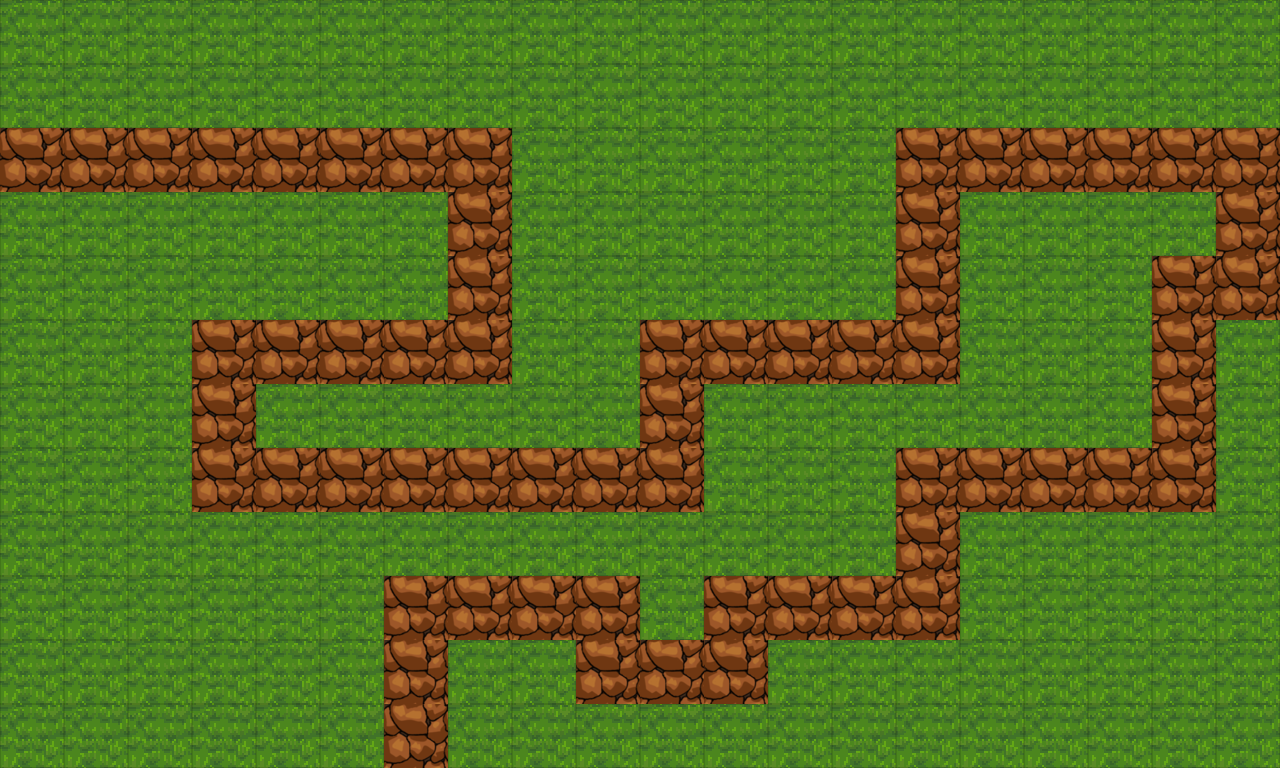
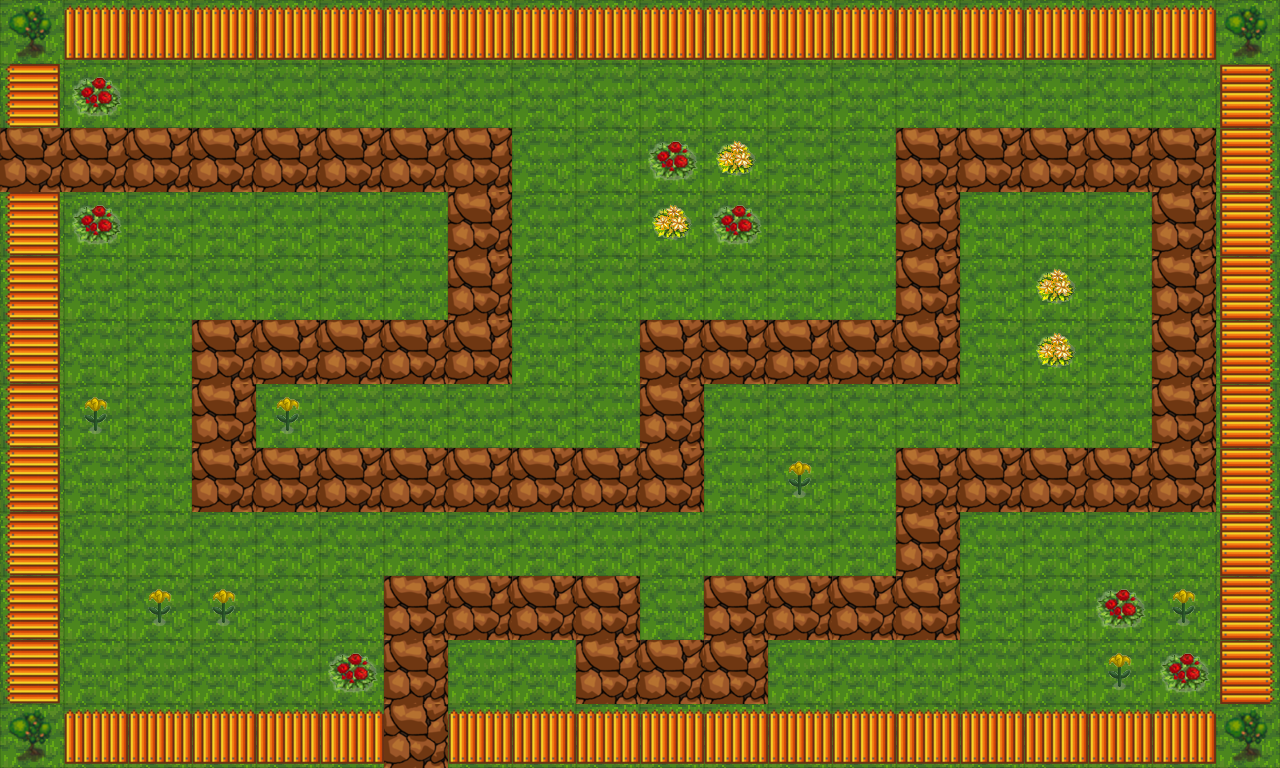
[ADD] Tiles, interaction, architecture of files
- Tiles : added the subdivision of tiles
- Placed classes in independant file
- Change of map.png with v2

diff --git a/src/index.js b/src/index.js
@@ -13,24 +13,13 @@ for (let i = 0; i < quadrillageToursData.length; i += 20) {
   quadrillageToursData2D.push(quadrillageToursData.slice(i, i + 20));
 }
 
-class CaseTours {
-  constructor({ position = { x: 0, y: 0 } }) {
-    this.position = position;
-    this.size = 64; // à changer avc notre taille de tiles
-    this.color = "green";
-  }
-
-  draw() {
-    c.fillStyle = this.color;
-    c.fillRect(this.position.x, this.position.y, this.size, this.size);
-  }
-}
+console.log(quadrillageToursData2D);
 
 const casesTours = [];
 
 quadrillageToursData2D.forEach((row, y) => {
   row.forEach((symbol, x) => {
-    if (symbol === 14) {
+    if (symbol === 7) {
       //potentiellement le changer ?
       //ici : ajouter les cases de placement de tours
       casesTours.push(
@@ -50,70 +39,6 @@ image.onload = () => {
 };
 image.src = "assets/map.png";
 
-class Enemy {
-  constructor({ position = { x: 0, y: 0 } }) {
-    this.position = position;
-    this.width = 100;
-    this.height = 100;
-    this.waypointIndex = 0;
-    this.center = {
-      // Permet de créer un point central dans les ennemis pour les déplacer à partir de leur centre.
-      x: this.position.x + this.width / 2,
-      y: this.position.y + this.height / 2,
-    };
-    this.health = 100;
-    this.velocity = {
-      x: 0,
-      y: 0,
-    };
-  }
-
-  draw() {
-    c.fillStyle = "red";
-    c.fillRect(this.position.x, this.position.y, this.width, this.height);
-
-    //gros bordel beginpath et tt
-
-    //Barre de vie
-    c.fillStyle = "red";
-    c.fillRect(this.position.x, this.position.y - 15, this.width, 10);
-
-    c.fillStyle = "green";
-    c.fillRect(this.position.x, this.position.y - 15, this.width, 10);
-  }
-
-  update() {
-    this.draw();
-
-    const waypoint = waypoints[this.waypointIndex]; // On récupère le waypoint actuel de chemin.js
-    const yDistance = waypoint.y - this.center.y;
-    const xDistance = waypoint.x - this.center.x;
-    const angle = Math.atan2(yDistance, xDistance);
-
-    const speed = 10; // vitesse
-    this.velocity.x = Math.cos(angle) * speed;
-    this.velocity.y = Math.sin(angle) * speed;
-
-    this.position.x += this.velocity.x; // Renvoie à la rapidité et le Math.cos(angle) permet de déplacer l'ennemi sur l'axe des x ICI : on peut ajouter un multiplicateur pour augmenter la vitesse des ennemis
-    this.position.y += this.velocity.y; // Renvoie à la rapidité et le  Math.sin(angle) permet de déplacer l'ennemi sur l'axe des y ICI : on peut ajouter un multiplicateur pour augmenter la vitesse des ennemis
-    this.center = {
-      x: this.position.x + this.width / 2,
-      y: this.position.y + this.height / 2,
-    };
-
-    if (
-      Math.abs(Math.round(this.center.x) - Math.round(waypoint.x)) <
-        Math.abs(this.velocity.x) &&
-      Math.abs(Math.round(this.center.y) - Math.round(waypoint.y)) <
-        Math.abs(this.velocity.y) && // Ici : je ne peux pas mettre this.center.x et this.center.y à la place de this.position.x et this.position.y <- j'ai fix c bon
-      this.waypointIndex < waypoints.length - 1
-    ) {
-      //Boucle if permettant de vérifier si l'ennemi est arrivé à la position du waypoint, et de passer au waypoint suivant
-      this.waypointIndex++;
-    }
-  }
-}
-
 // erreur incompréhensible const enemy = new Enemy({ position: { x: waypoints[0].x, y: waypoints[0].y } });
 const enemies = []; //ici : inclure les ennemis de la db
 
@@ -130,6 +55,10 @@ function spawnEnemies() {
 spawnEnemies();
 const enemy = new Enemy({ position: { x: waypoints[0].x, y: waypoints[0].y } });
 let x = 200;
+
+const tours = [];
+let caseActive = undefined;
+
 function animate() {
   requestAnimationFrame(animate);
 
@@ -137,12 +66,55 @@ function animate() {
   enemies.forEach((enemy) => {
     enemy.update();
 
-    if (enemy.position.x > canvas.height) {
-      console.log("ouch");
-    }
+    //    if (enemy.position.x > canvas.height) {
+    //      console.log("ouch"); // bizarre ils ouchent avant de sortir de l'écran
+    //    }
   });
 
   casesTours.forEach((caseTours) => {
-    caseTours.draw();
+    caseTours.update(mouse);
+  });
+
+  tours.forEach((tour) => {
+    tour.draw(); // ne fonctionne pas, ne permet pas de faire apparaitre la tour
   });
 }
+
+const mouse = {
+  x: undefined,
+  y: undefined,
+};
+
+canvas.addEventListener("click", (event) => {
+  if (caseActive) {
+    tours.push(
+      new Tour({
+        position: {
+          x: caseActive.position.x,
+          y: caseActive.position.y,
+        }, // ne fonctionne pas, ne permet pas de faire apparaitre la tour
+      })
+    );
+  }
+});
+
+window.addEventListener("mousemove", (event) => {
+  mouse.x = event.clientX;
+  mouse.y = event.clientY;
+
+  caseActive = null;
+  for (let i = 0; i < casesTours.length; i++) {
+    const cases = casesTours[i]; // j utilise le nom cases au pluriel car case  ne peut pas être utilisé
+    if (
+      // boucle if pour vérifier si la souris est sur une case
+      mouse.x > cases.position.x &&
+      mouse.x < cases.position.x + cases.size &&
+      mouse.y > cases.position.y &&
+      mouse.y < cases.position.y + cases.size
+    ) {
+      caseActive = cases;
+      break;
+    }
+  }
+  console.log(caseActive);
+});

diff --git a/src/classes.js b/src/classes.js
@@ -1,0 +1,100 @@
+class CaseTours {
+  constructor({ position = { x: 0, y: 0 } }) {
+    this.position = position;
+    this.size = 64;
+    this.color = "rgba(255, 255, 255, 0.3)";
+  }
+
+  draw() {
+    c.fillStyle = this.color;
+    c.fillRect(this.position.x, this.position.y, this.size, this.size);
+  }
+
+  update(mouse) {
+    this.draw();
+
+    if (
+      mouse.x > this.position.x &&
+      mouse.x < this.position.x + this.size &&
+      mouse.y > this.position.y &&
+      mouse.y < this.position.y + this.size
+    ) {
+      console.log("colliding");
+      this.color = "white";
+    } else this.color = "rgba(255, 255, 255, 0.3)";
+  }
+}
+
+class Tour {
+  constructor({ position = { x: 0, y: 0 } }) {
+    this.position = position;
+  }
+  draw() {
+    c.fillStyle = "blue";
+    c.fillRect(this.position.x, this.position.y, this.width, this.height);
+  }
+}
+
+class Enemy {
+  constructor({ position = { x: 0, y: 0 } }) {
+    this.position = position;
+    this.width = 100;
+    this.height = 100;
+    this.waypointIndex = 0;
+    this.center = {
+      // Permet de créer un point central dans les ennemis pour les déplacer à partir de leur centre.
+      x: this.position.x + this.width / 2,
+      y: this.position.y + this.height / 2,
+    };
+    this.health = 100;
+    this.velocity = {
+      x: 0,
+      y: 0,
+    };
+  }
+
+  draw() {
+    c.fillStyle = "red";
+    c.fillRect(this.position.x, this.position.y, this.width, this.height);
+
+    //gros bordel beginpath et tt
+
+    //Barre de vie
+    c.fillStyle = "red";
+    c.fillRect(this.position.x, this.position.y - 15, this.width, 10);
+
+    c.fillStyle = "blue";
+    c.fillRect(this.position.x, this.position.y - 15, this.width, 10);
+  }
+
+  update() {
+    this.draw();
+
+    const waypoint = waypoints[this.waypointIndex]; // On récupère le waypoint actuel de chemin.js
+    const yDistance = waypoint.y - this.center.y;
+    const xDistance = waypoint.x - this.center.x;
+    const angle = Math.atan2(yDistance, xDistance);
+
+    const speed = 10; // vitesse
+    this.velocity.x = Math.cos(angle) * speed;
+    this.velocity.y = Math.sin(angle) * speed;
+
+    this.position.x += this.velocity.x; // Renvoie à la rapidité et le Math.cos(angle) permet de déplacer l'ennemi sur l'axe des x ICI : on peut ajouter un multiplicateur pour augmenter la vitesse des ennemis
+    this.position.y += this.velocity.y; // Renvoie à la rapidité et le  Math.sin(angle) permet de déplacer l'ennemi sur l'axe des y ICI : on peut ajouter un multiplicateur pour augmenter la vitesse des ennemis
+    this.center = {
+      x: this.position.x + this.width / 2,
+      y: this.position.y + this.height / 2,
+    };
+
+    if (
+      Math.abs(Math.round(this.center.x) - Math.round(waypoint.x)) <
+        Math.abs(this.velocity.x) &&
+      Math.abs(Math.round(this.center.y) - Math.round(waypoint.y)) <
+        Math.abs(this.velocity.y) && // Ici : je ne peux pas mettre this.center.x et this.center.y à la place de this.position.x et this.position.y <- j'ai fix c bon
+      this.waypointIndex < waypoints.length - 1
+    ) {
+      //Boucle if permettant de vérifier si l'ennemi est arrivé à la position du waypoint, et de passer au waypoint suivant
+      this.waypointIndex++;
+    }
+  }
+}

diff --git a/src/quadrillageTours.js b/src/quadrillageTours.js
@@ -1,1 +1,12 @@
-const quadrillageToursData = [];
+const quadrillageToursData = [
+  0, 0, 0, 0, 0, 0, 0, 0, 0, 0, 0, 0, 0, 0, 0, 0, 0, 0, 0, 0, 0, 0, 7, 7, 7, 7,
+  7, 7, 7, 0, 0, 0, 0, 7, 7, 7, 7, 7, 7, 0, 0, 0, 0, 0, 0, 0, 0, 0, 7, 0, 0, 0,
+  0, 7, 0, 0, 0, 0, 0, 0, 0, 0, 7, 7, 7, 7, 7, 0, 7, 0, 0, 0, 0, 7, 0, 7, 7, 7,
+  0, 0, 0, 0, 7, 7, 7, 7, 7, 0, 7, 7, 7, 7, 7, 7, 0, 7, 0, 7, 0, 0, 0, 0, 7, 0,
+  0, 0, 0, 0, 7, 7, 0, 0, 0, 0, 0, 7, 0, 7, 0, 0, 0, 0, 7, 0, 0, 7, 7, 7, 7, 7,
+  0, 7, 7, 7, 7, 7, 7, 7, 0, 0, 0, 0, 7, 0, 0, 0, 0, 0, 0, 0, 0, 7, 0, 7, 0, 0,
+  0, 0, 0, 0, 0, 0, 7, 7, 7, 7, 7, 7, 7, 7, 7, 7, 7, 7, 0, 7, 7, 7, 7, 0, 0, 0,
+  0, 0, 0, 7, 0, 0, 0, 0, 7, 0, 0, 0, 0, 7, 0, 0, 0, 0, 0, 0, 0, 0, 0, 0, 0, 7,
+  7, 0, 0, 0, 7, 7, 7, 7, 0, 0, 0, 0, 0, 0, 0, 0, 0, 0, 0, 0, 0, 0, 0, 0, 0, 0,
+  0, 0, 0, 0, 0, 0,
+];

diff --git a/index.html b/index.html
@@ -7,6 +7,7 @@
   <body>
     <canvas> </canvas>
     <script src="src/chemin.js" charset="utf-8"></script>
+    <script src="src/classes.js" charset="utf-8"></script>
     <script src="src/quadrillageTours.js" charset="utf-8"></script>
     <script src="src/index.js" charset="utf-8"></script>
     <!-- Attention ! A changer avec l'import du chemin à partir de la DB potentiellement -->
